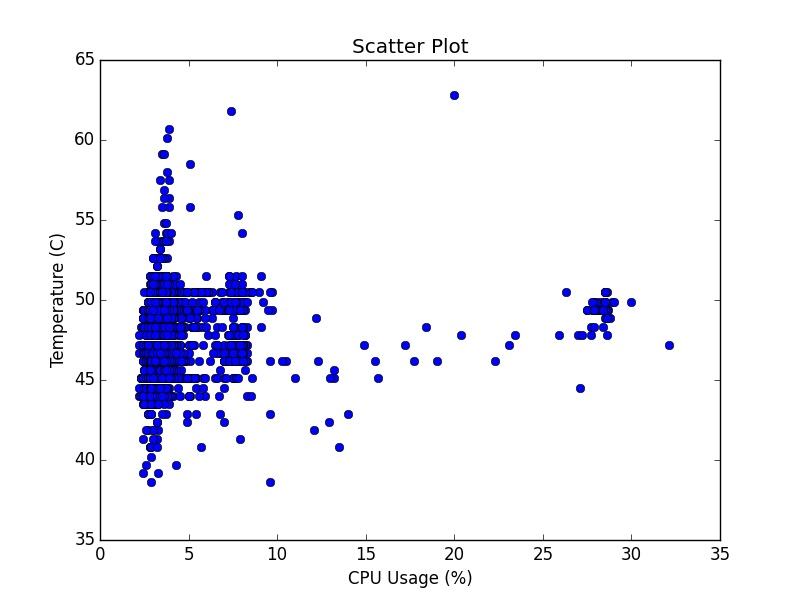
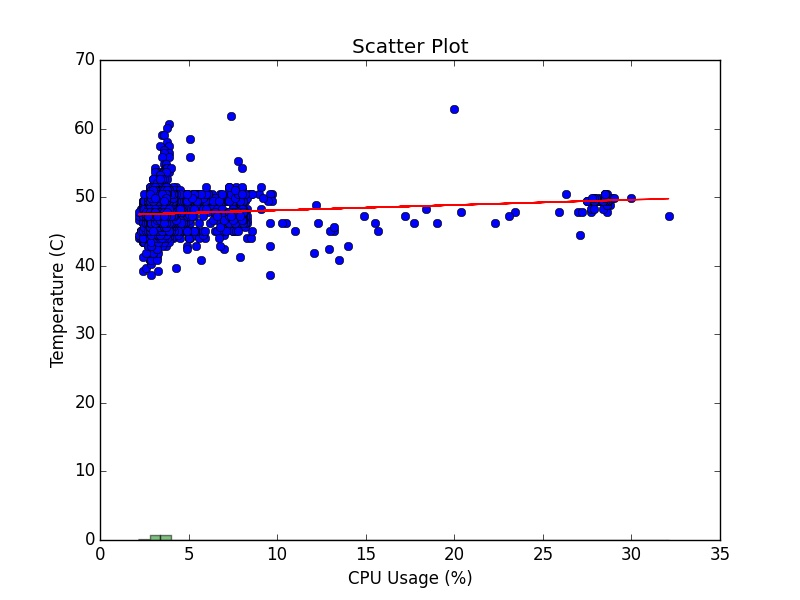
fixed data issue

diff --git a/ee629_final.py b/ee629_final.py
@@ -5,8 +5,12 @@ import matplotlib
 matplotlib.use('Agg')
 
 import matplotlib.pyplot as plt
+import matplotlib.mlab as mlab
 
 data = p.read_csv('rpidata.csv')
+
+for line in data:
+    if data['Date/Time'].empty: print "uh oh"
 
 t = data['Date/Time']
 x = data['CPU Usage %']
@@ -16,17 +20,30 @@ t0 = np.array(t)
 x0 = np.array(x)
 y0 = np.array(y)
 
+#histogram settings
+num_bins = 50
+
+#Create cpu histogram
+print 'generating cpu usage histogram'
+n, bins, patches = plt.hist(x, num_bins, normed=1, facecolor='green', alpha=0.5)
+plt.xlabel('CPU Usage')
+plt.ylabel('Samples')
+plt.title('CPU Usage Histogram')
+#plt.plot(bins, x0, 'r--')
+print 'saving figure...'
+plt.savefig('usehist.jpg')
+print 'done with useage histogram!'
+plt.clf
 
 #Create the scatter plot:
 print 'generating scatter plot...'
-scatter = plt
 slope, intercept, r_value, p_value, std_err = stats.linregress(x0,y0)
 l = [slope*i + intercept for i in x0]
-scatter.xlabel('CPU Usage (%)')
-scatter.ylabel('Temperature (C)')
-scatter.title('Scatter Plot')
-scatter.plot(x0,y0, linestyle='None', marker='o', color='b')
-scatter.plot(x0, l, 'r-')
+plt.xlabel('CPU Usage (%)')
+plt.ylabel('Temperature (C)')
+plt.title('Scatter Plot')
+plt.plot(x0,y0, linestyle='None', marker='o', color='b')
+plt.plot(x0, l, 'r-')
 print 'saving figure...'
-scatter.savefig('scatter1.jpg')
+plt.savefig('scatter1.jpg')
 print 'done with scatter plot!'
